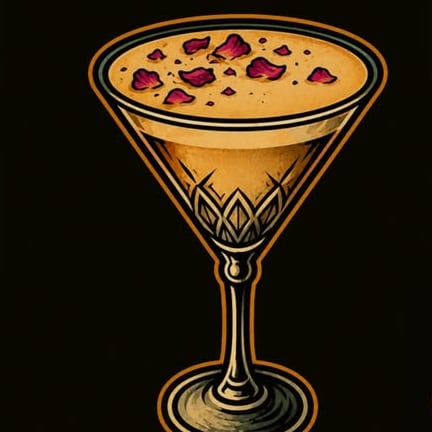
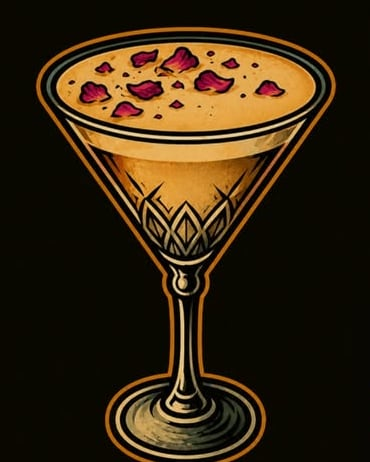
Menu content: season Autumn/Winter 2026, drafted texts, whole drawings
- The five signatures move into the season Autumn/Winter 2026 (1 Sep 2026 to
  28 Feb 2027). Every field of the old menu is kept.
- Drafts by Claude for Elias to check: what each drink is like and the
  season's description, in English, translated on the Mac (de, fr, it).
  Marked draft in the file; the Studio shows the mark until they are saved.
- Measures and steps are left empty: the bar gives them.
- The drawings are cut again from the menu cards as 4:5 portraits, so the
  garnish and the foot of the glass are no longer cut off.
- The menu page texts in four languages.

Changed region(s): [[0.0892, 0.0301, 0.9216, 1.0]]

diff --git a/site/content/fr/menu.md b/site/content/fr/menu.md
@@ -1,0 +1,7 @@
+---
+title: "Cocktails de ROBIN's Bar & Coffee, vieille ville de Zurich"
+description: "Les cocktails de ROBIN's Bar & Coffee dans la vieille ville de Zurich, saison par saison: ce qui est à la carte maintenant, ce qui était avant et ce qui vient."
+layout: menu
+heading: "Les cocktails"
+---
+Nos cocktails changent avec les saisons. Voici ce que nous servons maintenant. Touchez un cocktail pour voir ce qu'il contient.

diff --git a/site/content/de/menu.md b/site/content/de/menu.md
@@ -1,0 +1,7 @@
+---
+title: "Cocktails im ROBIN's Bar & Coffee, Zürcher Altstadt"
+description: "Die Cocktails des ROBIN's Bar & Coffee in der Zürcher Altstadt, Saison für Saison: was jetzt auf der Karte steht, was vorher war und was als Nächstes kommt."
+layout: menu
+heading: "Die Cocktails"
+---
+Unsere Cocktails wechseln mit den Saisons. Hier steht, was wir jetzt ausschenken. Tippe auf einen Drink, um zu sehen, was drin ist.

diff --git a/site/content/it/menu.md b/site/content/it/menu.md
@@ -1,0 +1,7 @@
+---
+title: "Cocktail di ROBIN's Bar & Coffee, centro storico di Zurigo"
+description: "I cocktail di ROBIN's Bar & Coffee nel centro storico di Zurigo, stagione per stagione: cosa c'è nel menu adesso, cosa c'era prima e cosa arriverà."
+layout: menu
+heading: "I cocktail"
+---
+I nostri cocktail cambiano con le stagioni. Ecco cosa serviamo adesso. Tocca un cocktail per vedere cosa contiene.

diff --git a/site/content/en/menu.md b/site/content/en/menu.md
@@ -1,0 +1,7 @@
+---
+title: "Cocktails at ROBIN's Bar & Coffee, Zürich Old Town"
+description: "The cocktails of ROBIN's Bar & Coffee in Zürich's Old Town, season by season: what is on the menu now, what came before and what comes next."
+layout: menu
+heading: "The cocktails"
+---
+Our cocktails change with the seasons. Here is what we pour now. Tap a drink to see what is in it.
